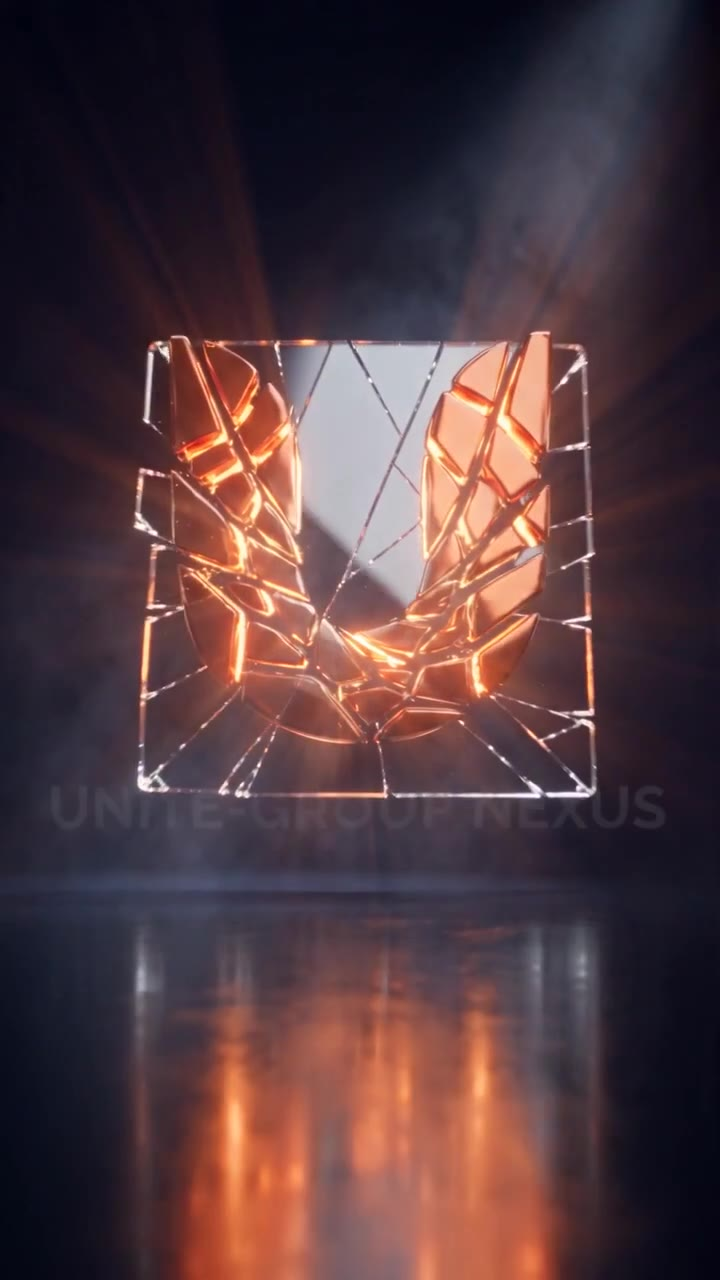
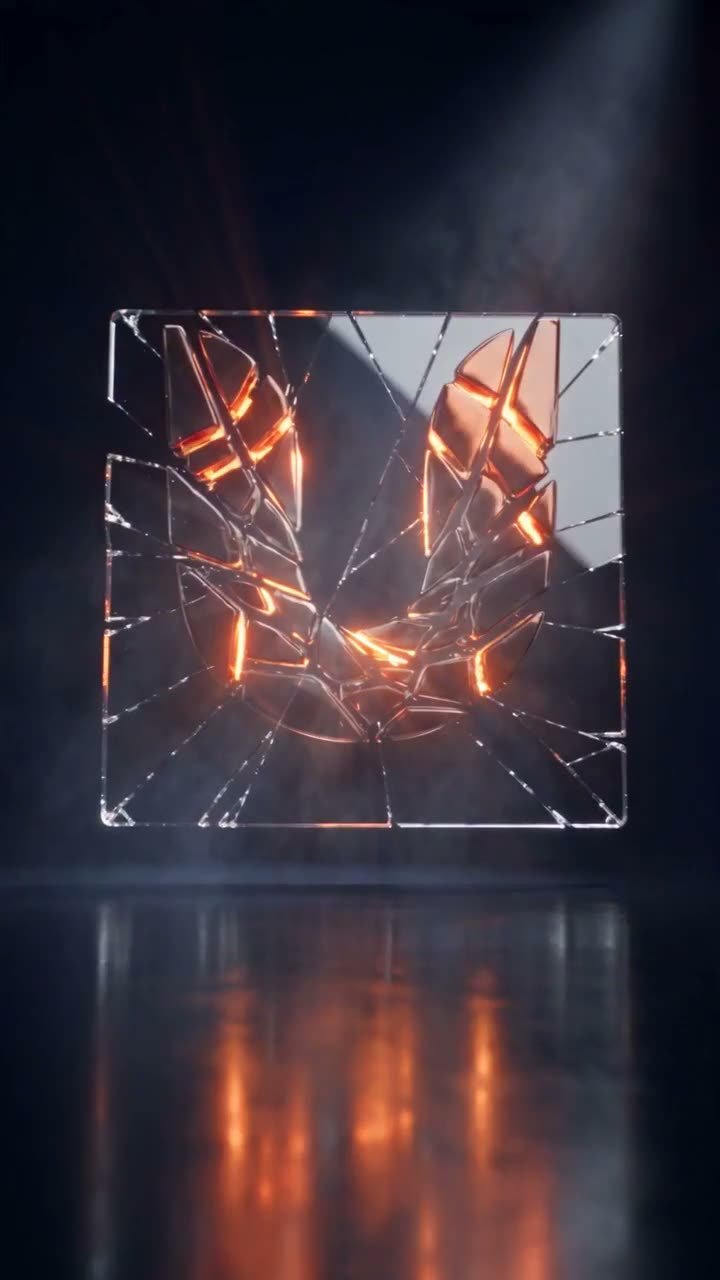
fix(seo): Rewind thumbnail without the wordmark, hash-pinned thumbnails (UNI-3061)
- Rewind thumbnail re-cut at 0.75 s, before the wordmark appears.
- New test pins each of the 10 thumbnails to the SHA-256 of the image that was
  visually checked; a changed image fails until it is checked again.

Linear: UNI-3061
Gate: seo-uni-3061 vitest 9/9 (fails with the old Rewind thumbnail, passes restored); pr-release-gate on Mac Mini

diff --git a/apps/web/src/lib/__tests__/seo-uni-3061.test.ts b/apps/web/src/lib/__tests__/seo-uni-3061.test.ts
@@ -1,3 +1,4 @@
+import { createHash } from 'node:crypto'
 import { existsSync, readFileSync } from 'node:fs'
 import { join } from 'node:path'
 
@@ -12,6 +13,22 @@ import { INDEXNOW_KEY, INDEXNOW_KEY_PATH, indexNowPayload } from '@/lib/indexnow
 import { isPublicPath } from '@/proxy'
 
 const PUBLIC = join(__dirname, '../../../public')
+// SHA-256 of each thumbnail after a visual check on 28/10/2026 that it shows no wordmark
+// (no "Nexus" text). A changed or added image fails here until it is looked at again
+// and its new hash is recorded. Pixels cannot be read for text in a unit test.
+const REVIEWED_THUMBS: Record<string, string> = {
[10 lines of base64/hex data omitted]
+}
+
 const fileFor = (url: string) => join(PUBLIC, new URL(url).pathname)
 
 describe('card VideoObject JSON-LD (UNI-3061)', () => {
@@ -37,9 +54,17 @@ describe('card VideoObject JSON-LD (UNI-3061)', () => {
     }
   })
 
-  it('new copy and thumbnails never say Nexus or CARSI', () => {
+  it('new copy and thumbnail URLs never say Nexus or CARSI', () => {
     for (const f of cardFilms()) {
       expect(`${f.name} ${f.description} ${f.thumbnailUrl}`).not.toMatch(/nexus|carsi/i)
+    }
+  })
+
+  it('every thumbnail is the exact image that was visually checked for wordmarks', () => {
+    for (const f of cardFilms()) {
+      const name = new URL(f.thumbnailUrl).pathname.split('/').pop()!
+      const sha = createHash('sha256').update(readFileSync(fileFor(f.thumbnailUrl))).digest('hex')
+      expect(sha, name).toBe(REVIEWED_THUMBS[name])
     }
   })
 })
